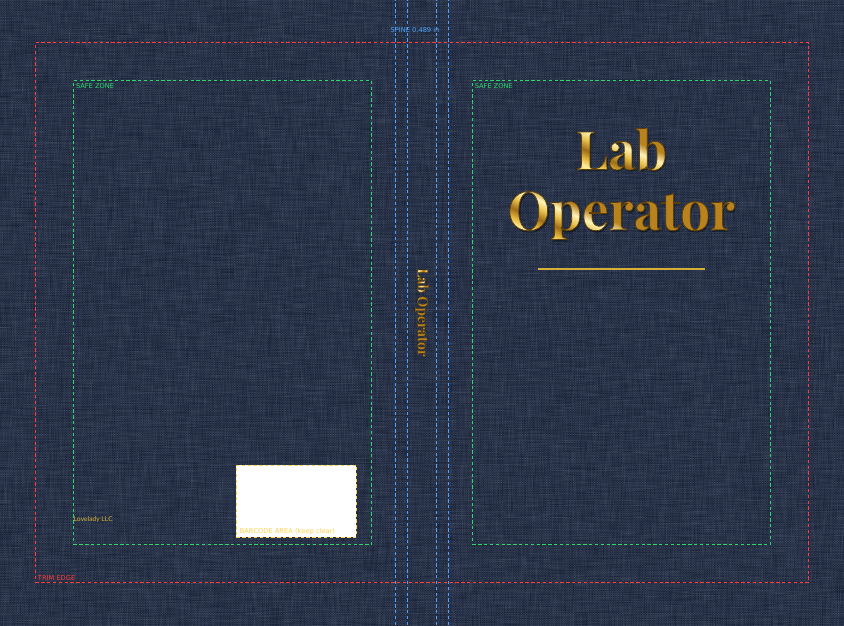
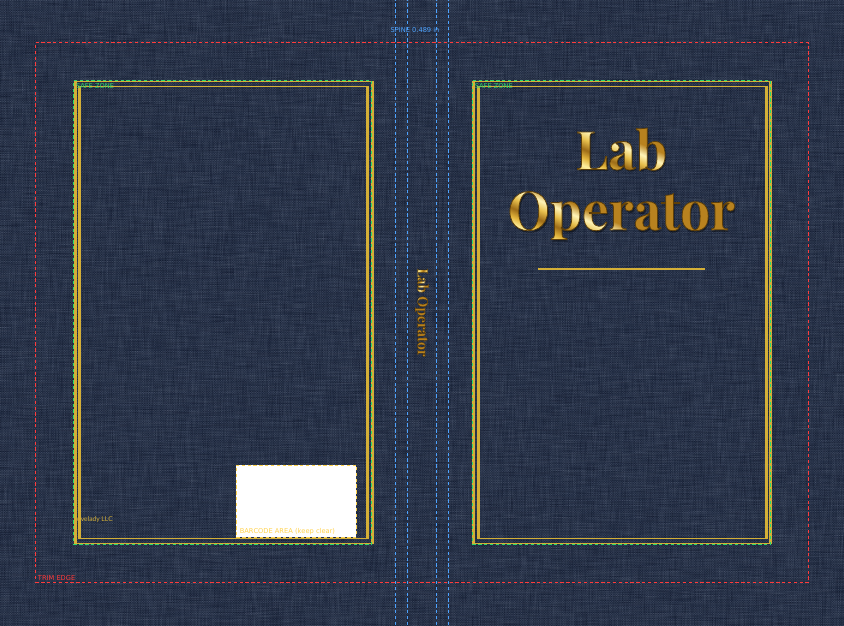
Jarvis notes and feedback summary sync

Changed region(s): [[0.0616, 0.1214, 0.4621, 0.8802], [0.5545, 0.1214, 0.9242, 0.8802]]

diff --git a/memory/inbox/queue-results.md b/memory/inbox/queue-results.md
@@ -1,58 +1,4 @@
-ght;IBM Plex Mono,IBM Plex Mono Medm;IBM Plex Mono,IBM Plex Mono SmBld;IBM Plex Mono,IBM Plex Mono Text;IBM Plex Mono,IBM Plex Mono Thin;IBM Plex Sans;IBM Plex Sans Arabic;
-
-== can reach GitHub raw?
-200
-(exit 0)
-```
-
-## 2026-11-05 15:01:02 tasks/queue/028-kdp-copy-engine.sh
-```
-total 88
-drwxrwxr-x 2 kylarlovelady kylarlovelady  4096 Nov  5 15:01 .
-drwxrwxr-x 3 kylarlovelady kylarlovelady  4096 Nov  5 15:01 ..
--rw-r--r-- 1 kylarlovelady kylarlovelady 25292 Nov  5 15:01 app.py
--rw-r--r-- 1 kylarlovelady kylarlovelady  9588 Nov  5 15:01 book-current.json
--rw-r--r-- 1 kylarlovelady kylarlovelady  1411 Nov  5 15:01 book-old.json
--rw-r--r-- 1 kylarlovelady kylarlovelady 33061 Nov  5 15:01 engine.py
-(exit 0)
-```
-
-## 2026-11-05 15:04:01 tasks/queue/029-home-voice-diag.sh
-```
-== services
-hub-satellite: active
-hub-voice: active
-phone-voice: active
-hub-dashboard: active
-hub-watchdog: active
-== containers
-openwakeword Up 6 days
-whisper Up 6 days (healthy)
-piper Up 6 days (healthy)
-pihole Up 19 hours (healthy)
-homeassistant Up 13 hours
-== hub-satellite log (last 25)
-Nov 05 14:56:55 LoveladyMainAiHub bash[2546920]: WARNING:root:Mic service disconnected
-Nov 05 14:57:38 LoveladyMainAiHub bash[2546920]: INFO:root:Waiting for wake word
-Nov 05 14:58:19 LoveladyMainAiHub systemd[1]: Stopping hub-satellite.service - Wyoming satellite (main hub)...
-Nov 05 14:58:19 LoveladyMainAiHub systemd[1]: hub-satellite.service: Deactivated successfully.
-Nov 05 14:58:19 LoveladyMainAiHub systemd[1]: Stopped hub-satellite.service - Wyoming satellite (main hub).
-Nov 05 14:58:19 LoveladyMainAiHub systemd[1]: hub-satellite.service: Consumed 1h 31min 37.976s CPU time.
-Nov 05 14:58:19 LoveladyMainAiHub systemd[1]: Started hub-satellite.service - Wyoming satellite (main hub).
-Nov 05 14:58:19 LoveladyMainAiHub bash[2665352]: INFO:root:Ready
-Nov 05 14:58:20 LoveladyMainAiHub bash[2665352]: INFO:root:Connected to services
-Nov 05 14:58:32 LoveladyMainAiHub bash[2665352]: INFO:root:Connected to server
-Nov 05 14:58:32 LoveladyMainAiHub bash[2665352]: INFO:root:Waiting for wake word
-Nov 05 14:58:52 LoveladyMainAiHub bash[2665352]: INFO:root:Waiting for wake word
-Nov 05 14:58:55 LoveladyMainAiHub bash[2666912]: Playing raw data 'stdin' : Signed 16 bit Little Endian, Rate 22050 Hz, Mono
-Nov 05 15:00:18 LoveladyMainAiHub bash[2665352]: INFO:root:Waiting for wake word
-Nov 05 15:00:20 LoveladyMainAiHub bash[2670871]: Playing raw data 'stdin' : Signed 16 bit Little Endian, Rate 22050 Hz, Mono
-Nov 05 15:00:51 LoveladyMainAiHub bash[2665352]: INFO:root:Waiting for wake word
-Nov 05 15:01:35 LoveladyMainAiHub systemd[1]: Stopping hub-satellite.service - Wyoming satellite (main hub)...
-Nov 05 15:01:35 LoveladyMainAiHub systemd[1]: hub-satellite.service: Deactivated successfully.
-Nov 05 15:01:35 LoveladyMainAiHub systemd[1]: Stopped hub-satellite.service - Wyoming satellite (main hub).
-Nov 05 15:01:35 LoveladyMainAiHub systemd[1]: hub-satellite.service: Consumed 2.083s CPU time.
-Nov 05 15:01:35 LoveladyMainAiHub systemd[1]: Started hub-satellite.service - Wyoming satellite (main hub).
+ainAiHub systemd[1]: Started hub-satellite.service - Wyoming satellite (main hub).
 Nov 05 15:01:36 LoveladyMainAiHub bash[2674286]: INFO:root:Ready
 Nov 05 15:01:36 LoveladyMainAiHub bash[2674286]: INFO:root:Connected to services
 Nov 05 15:01:48 LoveladyMainAiHub bash[2674286]: INFO:root:Connected to server
@@ -516,5 +462,67 @@ drwxrwxr-x 4 kylarlovelady kylarlovelady    4096 Nov  5 17:22 ..
 -rw-rw-r-- 1 kylarlovelady kylarlovelady    7365 Nov  5 17:22 page1.png
 -rw-rw-r-- 1 kylarlovelady kylarlovelady    1569 Nov  5 17:22 page2.png
 -rw-rw-r-- 1 kylarlovelady kylarlovelady    1593 Nov  5 17:22 page3.png
+(exit 0)
+```
+
+## 2026-11-05 17:34:01 tasks/queue/042-kdp-build-border.sh
+```
+fonts found: ['Bitstream Vera', 'Caladea', 'Carlito', 'DejaVu Sans', 'DejaVu Serif', 'FreeSans', 'FreeSerif', 'Lato', 'Liberation Mono', 'Liberation Sans', 'Liberation Serif', 'Open Sans', 'Playfair Display', 'Roboto']
+title font: Playfair Display | interior font: Lato
+== process-operator-a cover 14.065 x 10.418 spine 0.489
+  OK Page count 120 (hardcover needs 75 to 550)
+  OK Page count is even
+  OK Cover file 14.065 x 10.418 in, spine 0.489 in
+  WARN Cover size NOT yet verified against KDP's cover calculator (do once before uploading)
+  OK Inside margin 0.500 in (KDP minimum 0.375)
+  OK All cover text inside the safe zone and clear of the barcode area
+  OK Inside text contrast 15.9:1
+  OK Picture on the full: sharp (300 dpi)
+  OK cover PDF fonts embedded
+  OK interior PDF fonts embedded
+  OK Author / pen name set
+  OK Title set
+  OK Title + subtitle length OK
+  WARN Book description not written
+  WARN 0 of 7 keywords
+  WARN Price not set
+  plan: ['owner', 'journal', 'journal', 'journal'] ... 120 pages
+== lab-operator-a cover 14.065 x 10.418 spine 0.489
+  OK Page count 120 (hardcover needs 75 to 550)
+  OK Page count is even
+  OK Cover file 14.065 x 10.418 in, spine 0.489 in
+  WARN Cover size NOT yet verified against KDP's cover calculator (do once before uploading)
+  OK Inside margin 0.500 in (KDP minimum 0.375)
+  OK All cover text inside the safe zone and clear of the barcode area
+  OK Inside text contrast 15.9:1
+  OK Picture on the full: sharp (300 dpi)
+  OK cover PDF fonts embedded
+  OK interior PDF fonts embedded
+  OK Author / pen name set
+  OK Title set
+  OK Title + subtitle length OK
+  WARN Book description not written
+  WARN 0 of 7 keywords
+  WARN Price not set
+  plan: ['owner', 'journal', 'journal', 'journal'] ... 120 pages
+/home/kylarlovelady/starship/memory/inbox/kdp-preview/lab-operator-a:
+total 2000
+drwxrwxr-x 2 kylarlovelady kylarlovelady    4096 Nov  5 17:30 .
+drwxrwxr-x 4 kylarlovelady kylarlovelady    4096 Nov  5 17:30 ..
+-rw-rw-r-- 1 kylarlovelady kylarlovelady 1017671 Nov  5 17:34 cover-guides.png
+-rw-rw-r-- 1 kylarlovelady kylarlovelady 1000394 Nov  5 17:34 cover.png
+-rw-rw-r-- 1 kylarlovelady kylarlovelady    7365 Nov  5 17:34 page1.png
+-rw-rw-r-- 1 kylarlovelady kylarlovelady    1569 Nov  5 17:34 page2.png
+-rw-rw-r-- 1 kylarlovelady kylarlovelady    1593 Nov  5 17:34 page3.png
+
+/home/kylarlovelady/starship/memory/inbox/kdp-preview/process-operator-a:
+total 1992
+drwxrwxr-x 2 kylarlovelady kylarlovelady    4096 Nov  5 17:30 .
+drwxrwxr-x 4 kylarlovelady kylarlovelady    4096 Nov  5 17:30 ..
+-rw-rw-r-- 1 kylarlovelady kylarlovelady 1015213 Nov  5 17:34 cover-guides.png
+-rw-rw-r-- 1 kylarlovelady kylarlovelady  998636 Nov  5 17:34 cover.png
+-rw-rw-r-- 1 kylarlovelady kylarlovelady    7365 Nov  5 17:34 page1.png
+-rw-rw-r-- 1 kylarlovelady kylarlovelady    1569 Nov  5 17:34 page2.png
+-rw-rw-r-- 1 kylarlovelady kylarlovelady    1593 Nov  5 17:34 page3.png
 (exit 0)
 ```

diff --git a/memory/inbox/pi-status.md b/memory/inbox/pi-status.md
@@ -2,7 +2,7 @@
 Freshness = the git commit time of this file. Ages below are counted at the moment of the snapshot.
 
 ## Pi
-- up 1 week, 4 days, 6 hours, 30 minutes; temp 39.5'C; throttled flags 0x0 (0x0 is clean); memory 58%; disk 10%
+- up 1 week, 4 days, 6 hours, 34 minutes; temp 43.3'C; throttled flags 0x0 (0x0 is clean); memory 60%; disk 10%
 
 ## Services
 - active: market-agent, phone-voice, tailscaled, docker, hub-dashboard, hub-devices, hub-kdp, hub-lights, hub-memlog, hub-oled, hub-outage, hub-satellite, hub-voice, hub-watchdog
@@ -11,13 +11,13 @@ Freshness = the git commit time of this file. Ages below are counted at the mome
 - containers: openwakeword Up 6 days; whisper Up 6 days (healthy); piper Up 6 days (healthy); pihole Up 22 hours (healthy); homeassistant Up 16 hours
 
 ## Sync and schedule
-- Pi repo copy at: 60faef0 8 minutes ago: Jarvis notes and feedback summary sync
+- Pi repo copy at: db42b7d 4 minutes ago: KDP: draw gold border as rectangles on top of texture (queue 042)
 - last notes sync result: notes pushed to the repo
 - cron jobs (script names): crew-update.sh, market-watchdog, market-supervisor, market-lab, memory_sync.sh, starship-alerts, kalshi-data-sync, task-queue
 
 ## Markets agent (practice money)
 - agent data last written: 0 min ago; mode shown by the agent: ?; live-run flags: {"live_run_active": false, "last_run_live": false}
-- supervisor report (23 min ago), first lines:
+- supervisor report (27 min ago), first lines:
     MARKET AGENT PROGRESS  Thu 05 Nov 17:07
     
     1. ALIVE
@@ -45,7 +45,7 @@ Freshness = the git commit time of this file. Ages below are counted at the mome
             v_x80218932  +208.96 over   71 rounds, wins 54%   (-24.61 over +4 rounds since last check)
 
 ## Jarvis (phone voice), last 24 h
-- turns: 71; errors: 0; ignored blips: 10; last activity: 3.6 h ago
+- turns: 71; errors: 0; ignored blips: 10; last activity: 3.7 h ago
 - hang-ups: you ended it x9, quiet x2
 - time to first words: avg 1.6s, slowest 4.2s over 69 answers
 
